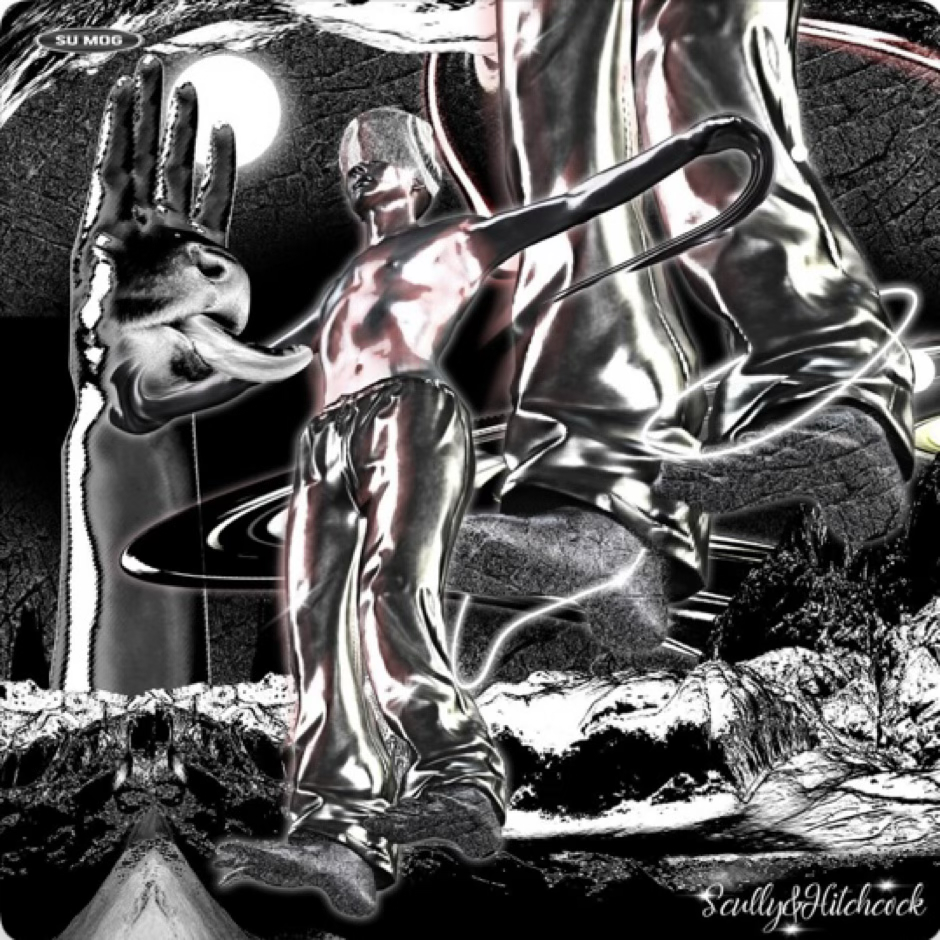
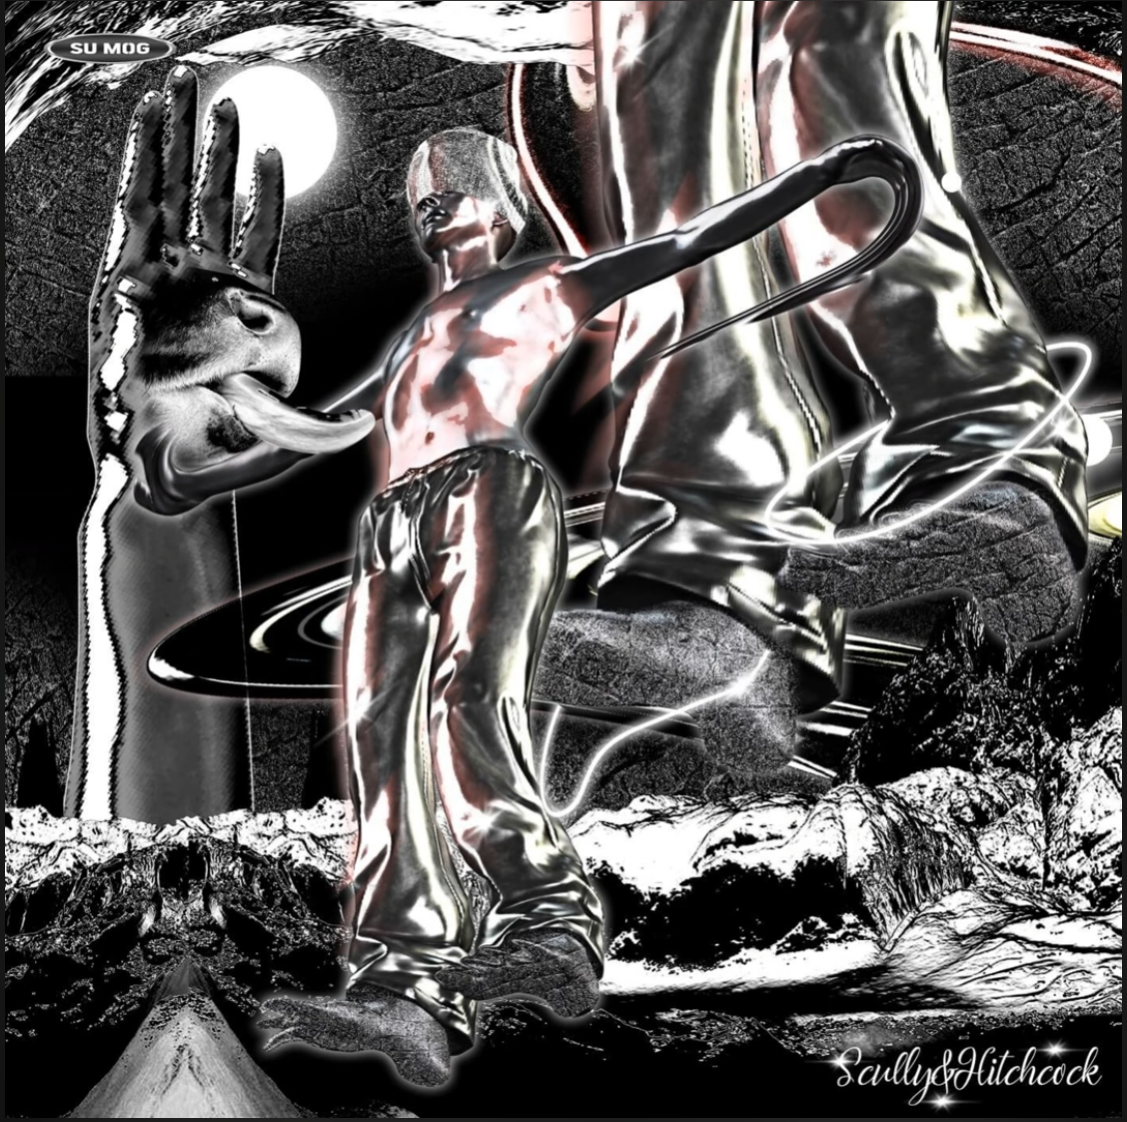
chore: sync redesign updates from my-website
- Update data.js (content edits)
- Update variantA.jsx (component changes)
- Replace musics/now2.JPG and musics/prod-gunny.jpg

diff --git a/variantA.jsx b/variantA.jsx
@@ -501,65 +501,181 @@ function CreationA({ onNav }) {
         </div>
       </div>
 
-      <div style={{ padding: '48px 56px 64px' }}>
-        <SectionLabel no="02" name="Releases" count={c.releases.length} right={<Mono size={10} color={A.ink3}>{active ? 'NOW PLAYING ▼' : '↓ CLICK COVER TO PLAY'}</Mono>} />
-        <div style={{ display: 'grid', gridTemplateColumns: 'repeat(4, 1fr)', gap: 20 }}>
-          {c.releases.map((r, i) => {
-            const playable = !!(r.spotify || r.youtube);
-            const isActive = active && (active.title === r.title && active.artist === r.artist);
-            return (
-              <div
-                key={i}
-                onClick={() => playable && setActive(r)}
-                style={{
-                  border: `1px solid ${isActive ? A.accent : A.rule}`,
-                  background: A.paper,
-                  cursor: playable ? 'pointer' : 'default',
-                  transition: 'transform .15s, border-color .12s',
-                  transform: isActive ? 'translateY(-2px)' : 'none',
-                  boxShadow: isActive ? `0 8px 24px ${A.accent}33` : 'none',
-                }}
-                onMouseEnter={(e) => { if (playable) e.currentTarget.style.transform = 'translateY(-2px)'; }}
-                onMouseLeave={(e) => { if (playable && !isActive) e.currentTarget.style.transform = 'translateY(0)'; }}
-              >
-                <div style={{ position: 'relative', width: '100%', aspectRatio: '1', background: A.paperAlt, overflow: 'hidden' }}>
-                  {r.cover ? (
-                    <img src={r.cover} style={{ width: '100%', height: '100%', objectFit: 'cover', display: 'block' }} />
-                  ) : (
-                    <div style={{ display: 'grid', placeItems: 'center', width: '100%', height: '100%' }}>
-                      <Mono size={10} color={A.ink3}>NO ARTWORK</Mono>
+      {/* Featured video — brand work, visual-art collaborations */}
+      {c.videos && c.videos.length > 0 && (
+        <div style={{ padding: '48px 56px 40px', borderBottom: `1px solid ${A.rule}` }}>
+          <SectionLabel no="02" name="Featured Video" count={c.videos.length} right={<Mono size={10} color={A.ink3}>BRAND · VISUAL ART · COLLABORATIONS</Mono>} />
+          <div style={{ display: 'grid', gridTemplateColumns: 'repeat(4, 1fr)', gap: 16 }}>
+            {c.videos.map((v, i) => {
+              const m = v.youtube ? v.youtube.match(/(?:youtu\.be\/|youtube\.com\/watch\?v=)([A-Za-z0-9_-]+)/) : null;
+              const id = m ? m[1] : null;
+              const thumb = id ? `https://img.youtube.com/vi/${id}/hqdefault.jpg` : null;
+              return (
+                <Ext key={i} href={v.youtube} style={{ display: 'block' }}>
+                  <div style={{ border: `1px solid ${A.rule}`, background: A.paper, transition: 'transform .15s', position: 'relative' }}
+                    onMouseEnter={(e) => { e.currentTarget.style.transform = 'translateY(-2px)'; }}
+                    onMouseLeave={(e) => { e.currentTarget.style.transform = 'translateY(0)'; }}>
+                    <div style={{ position: 'relative', width: '100%', aspectRatio: '16/9', background: A.paperAlt, overflow: 'hidden' }}>
+                      {thumb ? (
+                        <img src={thumb} style={{ width: '100%', height: '100%', objectFit: 'cover', display: 'block' }} />
+                      ) : (
+                        <div style={{ display: 'grid', placeItems: 'center', width: '100%', height: '100%' }}>
+                          <Mono size={10} color={A.ink3}>VIDEO</Mono>
+                        </div>
+                      )}
+                      <div style={{ position: 'absolute', top: 8, left: 8, padding: '3px 7px', background: A.paper, fontFamily: A.mono, fontSize: 9, letterSpacing: '0.08em', color: A.accent, fontWeight: 600 }}>{v.tag || 'VIDEO'}</div>
+                      <div style={{ position: 'absolute', bottom: 8, right: 8, width: 32, height: 32, background: A.ink, color: A.paper, display: 'grid', placeItems: 'center', fontFamily: A.mono, fontSize: 11 }}>▶</div>
                     </div>
-                  )}
-                  <div style={{ position: 'absolute', top: 8, left: 8, padding: '3px 7px', background: A.paper, fontFamily: A.mono, fontSize: 9, letterSpacing: '0.08em', color: r.kind === 'PROD' ? A.accent : A.ink }}>{r.kind}</div>
-                  {playable && (
-                    <div style={{
-                      position: 'absolute', bottom: 10, right: 10,
-                      width: 40, height: 40,
-                      background: isActive ? A.accent : A.ink,
-                      color: A.paper,
-                      display: 'grid', placeItems: 'center',
-                      fontFamily: A.mono, fontSize: 14,
-                      transition: 'background .15s',
-                    }}>
-                      {isActive ? '❚❚' : '▶'}
-                    </div>
-                  )}
-                </div>
-                <div style={{ padding: 14 }}>
-                  <div style={{ fontSize: 14, fontWeight: 600, color: A.ink, lineHeight: 1.2 }}>{r.title}</div>
-                  <div style={{ fontSize: 12, color: A.ink2, marginTop: 4 }}>{r.artist}</div>
-                  <div style={{ display: 'flex', justifyContent: 'space-between', alignItems: 'baseline', marginTop: 10 }}>
-                    <Mono size={9} color={A.ink3}>{r.year}</Mono>
-                    <div style={{ display: 'flex', gap: 6 }}>
-                      {r.spotify && <Mono size={9} color={A.ink}>SPTFY</Mono>}
-                      {r.youtube && <Mono size={9} color={A.ink}>YT</Mono>}
+                    <div style={{ padding: '12px 14px' }}>
+                      <div style={{ fontSize: 14, fontWeight: 600, color: A.ink, lineHeight: 1.25 }}>{v.title}</div>
+                      <div style={{ fontSize: 12, color: A.ink2, marginTop: 4, lineHeight: 1.4 }}>{v.sub}</div>
+                      <div style={{ marginTop: 8, display: 'flex', justifyContent: 'space-between', alignItems: 'baseline' }}>
+                        <Mono size={9} color={A.ink3}>YOUTUBE</Mono>
+                        <Mono size={9} color={A.ink}>WATCH ↗</Mono>
+                      </div>
                     </div>
                   </div>
+                </Ext>
+              );
+            })}
+          </div>
+        </div>
+      )}
+
+      <div style={{ padding: '48px 56px 64px' }}>
+        <SectionLabel
+          no="03"
+          name="Releases"
+          count={c.releases.length}
+          right={<Mono size={10} color={A.ink3}>{active ? 'NOW PLAYING ▼' : 'SPOTIFY: PLAY IN-PAGE · YOUTUBE: NEW TAB'}</Mono>}
+        />
+
+        {(() => {
+          // Group by kind
+          const groups = [
+            { kind: 'PROD', label: 'Production', sub: 'Produced for other artists' },
+            { kind: 'SOLO', label: 'Singer-Songwriter', sub: 'Now or Never series' },
+            { kind: 'ELEC', label: 'Electronic', sub: 'House & dance' },
+          ];
+          return groups.map((g, gi) => {
+            const items = c.releases.filter((r) => r.kind === g.kind);
+            if (!items.length) return null;
+            return (
+              <div key={g.kind} style={{ marginTop: gi === 0 ? 16 : 36 }}>
+                {/* Group header */}
+                <div style={{ display: 'flex', alignItems: 'baseline', gap: 14, marginBottom: 8, paddingBottom: 8, borderBottom: `1px solid ${A.rule}` }}>
+                  <Mono size={10} color={A.accent} weight={600}>0{gi + 1}</Mono>
+                  <div style={{ fontFamily: A.sans, fontSize: 13, fontWeight: 600, color: A.ink, letterSpacing: '0.04em', textTransform: 'uppercase' }}>{g.label}</div>
+                  <Mono size={10} color={A.ink3}>{g.sub}</Mono>
+                  <div style={{ flex: 1 }} />
+                  <Mono size={10} color={A.ink3}>[{String(items.length).padStart(2, '0')}]</Mono>
                 </div>
+
+                {/* Rows */}
+                {items.map((r, ri) => {
+                  const isActive = active && active.title === r.title && active.artist === r.artist;
+                  const hasSpot = !!r.spotify;
+                  const hasYT = !!r.youtube;
+                  const ytUrl = hasYT ? r.youtube : null;
+                  return (
+                    <div
+                      key={ri}
+                      style={{
+                        display: 'grid',
+                        gridTemplateColumns: '56px 110px 1fr auto',
+                        gap: 18,
+                        alignItems: 'center',
+                        padding: '12px 0',
+                        borderBottom: `1px solid ${A.ruleSoft}`,
+                        background: isActive ? A.accent + '08' : 'transparent',
+                        transition: 'background .12s',
+                      }}
+                    >
+                      {/* Thumbnail */}
+                      <div style={{ width: 56, height: 56, border: `1px solid ${A.rule}`, background: A.paperAlt, position: 'relative', overflow: 'hidden' }}>
+                        {r.cover ? (
+                          <img src={r.cover} style={{ width: '100%', height: '100%', objectFit: 'cover', display: 'block' }} />
+                        ) : (
+                          <div style={{ display: 'grid', placeItems: 'center', width: '100%', height: '100%' }}>
+                            <Mono size={8} color={A.ink3}>—</Mono>
+                          </div>
+                        )}
+                        {isActive && (
+                          <div style={{ position: 'absolute', inset: 0, background: A.accent + 'CC', color: A.paper, display: 'grid', placeItems: 'center', fontSize: 14 }}>♪</div>
+                        )}
+                      </div>
+
+                      {/* Year + kind */}
+                      <div>
+                        <Mono size={10} color={A.ink3}>{r.year}</Mono>
+                        <div style={{ marginTop: 4, padding: '2px 7px', display: 'inline-block', background: r.kind === 'PROD' ? A.ink : A.paperAlt, color: r.kind === 'PROD' ? A.paper : A.ink, fontFamily: A.mono, fontSize: 9, letterSpacing: '0.08em' }}>{r.kind}</div>
+                      </div>
+
+                      {/* Title + artist */}
+                      <div style={{ minWidth: 0 }}>
+                        <div style={{ fontSize: 16, fontWeight: 600, color: A.ink, lineHeight: 1.25, letterSpacing: '-0.005em', whiteSpace: 'nowrap', overflow: 'hidden', textOverflow: 'ellipsis' }}>
+                          {r.title}
+                        </div>
+                        <div style={{ fontSize: 13, color: A.ink2, marginTop: 2, whiteSpace: 'nowrap', overflow: 'hidden', textOverflow: 'ellipsis' }}>{r.artist}</div>
+                      </div>
+
+                      {/* Actions */}
+                      <div style={{ display: 'flex', gap: 8 }}>
+                        {hasSpot && (
+                          <div
+                            onClick={() => setActive(isActive ? null : r)}
+                            style={{
+                              padding: '7px 12px',
+                              background: isActive ? A.accent : A.ink,
+                              color: A.paper,
+                              fontFamily: A.mono,
+                              fontSize: 10,
+                              letterSpacing: '0.08em',
+                              textTransform: 'uppercase',
+                              cursor: 'pointer',
+                              display: 'inline-flex',
+                              alignItems: 'center',
+                              gap: 6,
+                              transition: 'background .12s',
+                            }}
+                            title={isActive ? 'Stop' : 'Play in Spotify player'}
+                          >
+                            <span>{isActive ? '❚❚' : '▶'}</span>
+                            <span>SPOTIFY</span>
+                          </div>
+                        )}
+                        {hasYT && (
+                          <Ext href={ytUrl} style={{ display: 'inline-block' }}>
+                            <div
+                              style={{
+                                padding: '7px 12px',
+                                border: `1px solid ${A.rule}`,
+                                background: A.paper,
+                                color: A.ink,
+                                fontFamily: A.mono,
+                                fontSize: 10,
+                                letterSpacing: '0.08em',
+                                textTransform: 'uppercase',
+                                display: 'inline-flex',
+                                alignItems: 'center',
+                                gap: 6,
+                                transition: 'background .12s, color .12s',
+                              }}
+                              onMouseEnter={(e) => { e.currentTarget.style.background = A.ink; e.currentTarget.style.color = A.paper; }}
+                              onMouseLeave={(e) => { e.currentTarget.style.background = A.paper; e.currentTarget.style.color = A.ink; }}
+                            >
+                              <span>WATCH</span><span>↗</span>
+                            </div>
+                          </Ext>
+                        )}
+                      </div>
+                    </div>
+                  );
+                })}
               </div>
             );
-          })}
-        </div>
+          });
+        })()}
       </div>
 
       <FooterA />

diff --git a/data.js b/data.js
@@ -254,14 +254,43 @@ window.SiteData = {
     ],
     releases: [
       // Production work
-      { kind: 'PROD', artist: 'Gunny', title: 'Trouble', year: '2019', cover: '', youtube: 'https://youtu.be/-lerQuV3E7U' },
+      { kind: 'PROD', artist: 'Gunny', title: 'Trouble', year: '2019', cover: 'assets/images/musics/prod-gunny.jpg', youtube: 'https://youtu.be/-lerQuV3E7U' },
       { kind: 'PROD', artist: 'kingeunsan', title: 'Face Lift', year: '2020 · Album', cover: 'assets/images/musics/prod-king.jpg', youtube: 'https://youtu.be/ivjSE4UEqSo' },
       { kind: 'PROD', artist: 'Bbvdoll', title: 'Lovesick', year: '2021', cover: 'assets/images/musics/prod-bbv.jpg', youtube: 'https://youtu.be/gxZI9s0XkP8' },
       { kind: 'PROD', artist: 'Kim Hyo-kyung', title: '기다려 / Wait', year: '2021', cover: 'assets/images/musics/prod-hyo.jpg', youtube: 'https://youtu.be/U80QFEh_7F0' },
       // Singer-songwriter
-      { kind: 'SOLO', artist: 'ChangHeon Han', title: 'Now or Never 1', year: '2019', cover: 'assets/images/musics/now1.jpeg', spotify: 'https://open.spotify.com/album/2x7pTaEuhjVeEgvv1bxRzl' },
-      { kind: 'SOLO', artist: 'ChangHeon Han', title: 'Now or Never 3', year: '2021', cover: 'assets/images/musics/now3.JPG', spotify: 'https://open.spotify.com/album/5wE55heOH6cZIxiWKZj828' },
-      { kind: 'ELEC', artist: 'ChangHeon Han', title: 'Seoul Boys Night', year: '2019', cover: 'assets/images/musics/digital.JPG', youtube: 'https://youtu.be/GVB-44TqKmg' },
+      { kind: 'SOLO', artist: 'Sha Hardy', title: 'Now or Never 1', year: '2019', cover: 'assets/images/musics/now1.jpeg', spotify: 'https://open.spotify.com/album/2x7pTaEuhjVeEgvv1bxRzl' },
+      { kind: 'SOLO', artist: 'Sha Hardy', title: 'Now or Never 2', year: '2020', cover: 'assets/images/musics/now2.JPG', spotify: 'https://open.spotify.com/album/0wLbPZyed3eXtkkNaGvlRs', youtube: 'https://www.youtube.com/playlist?list=OLAK5uy_nMGNwjbbudZVe5fovcgZ8STXw6M3u2a9A' },
+      { kind: 'SOLO', artist: 'Sha Hardy', title: 'Now or Never 3', year: '2021', cover: 'assets/images/musics/now3.JPG', spotify: 'https://open.spotify.com/album/5wE55heOH6cZIxiWKZj828' },
+      { kind: 'ELEC', artist: 'Digital Picasso', title: 'Seoul Boys Night', year: '2019', cover: 'assets/images/musics/digital.JPG', youtube: 'https://youtu.be/GVB-44TqKmg' },
+    ],
+
+    // Visual / video collaborations — commercial · visual-art · brand work
+    videos: [
+      {
+        title: 'Hyundai Motor Group',
+        sub: 'Vocalist + producer · official ad',
+        youtube: 'https://youtu.be/Byb36TUtLf4',
+        tag: 'BRAND',
+      },
+      {
+        title: 'Visual Art Collaboration',
+        sub: 'Music production for visual art project',
+        youtube: 'https://youtu.be/YL8kOWiAKGM',
+        tag: 'VISUAL',
+      },
+      {
+        title: 'Music-based Visual Art',
+        sub: 'Visual art created with my original music',
+        youtube: 'https://youtu.be/xLMHM-Jmezo',
+        tag: 'VISUAL',
+      },
+      {
+        title: 'Artist Release',
+        sub: 'Singer-songwriter · producer release',
+        youtube: 'https://youtu.be/J4GoO77437I',
+        tag: 'RELEASE',
+      },
     ],
   },
 };
